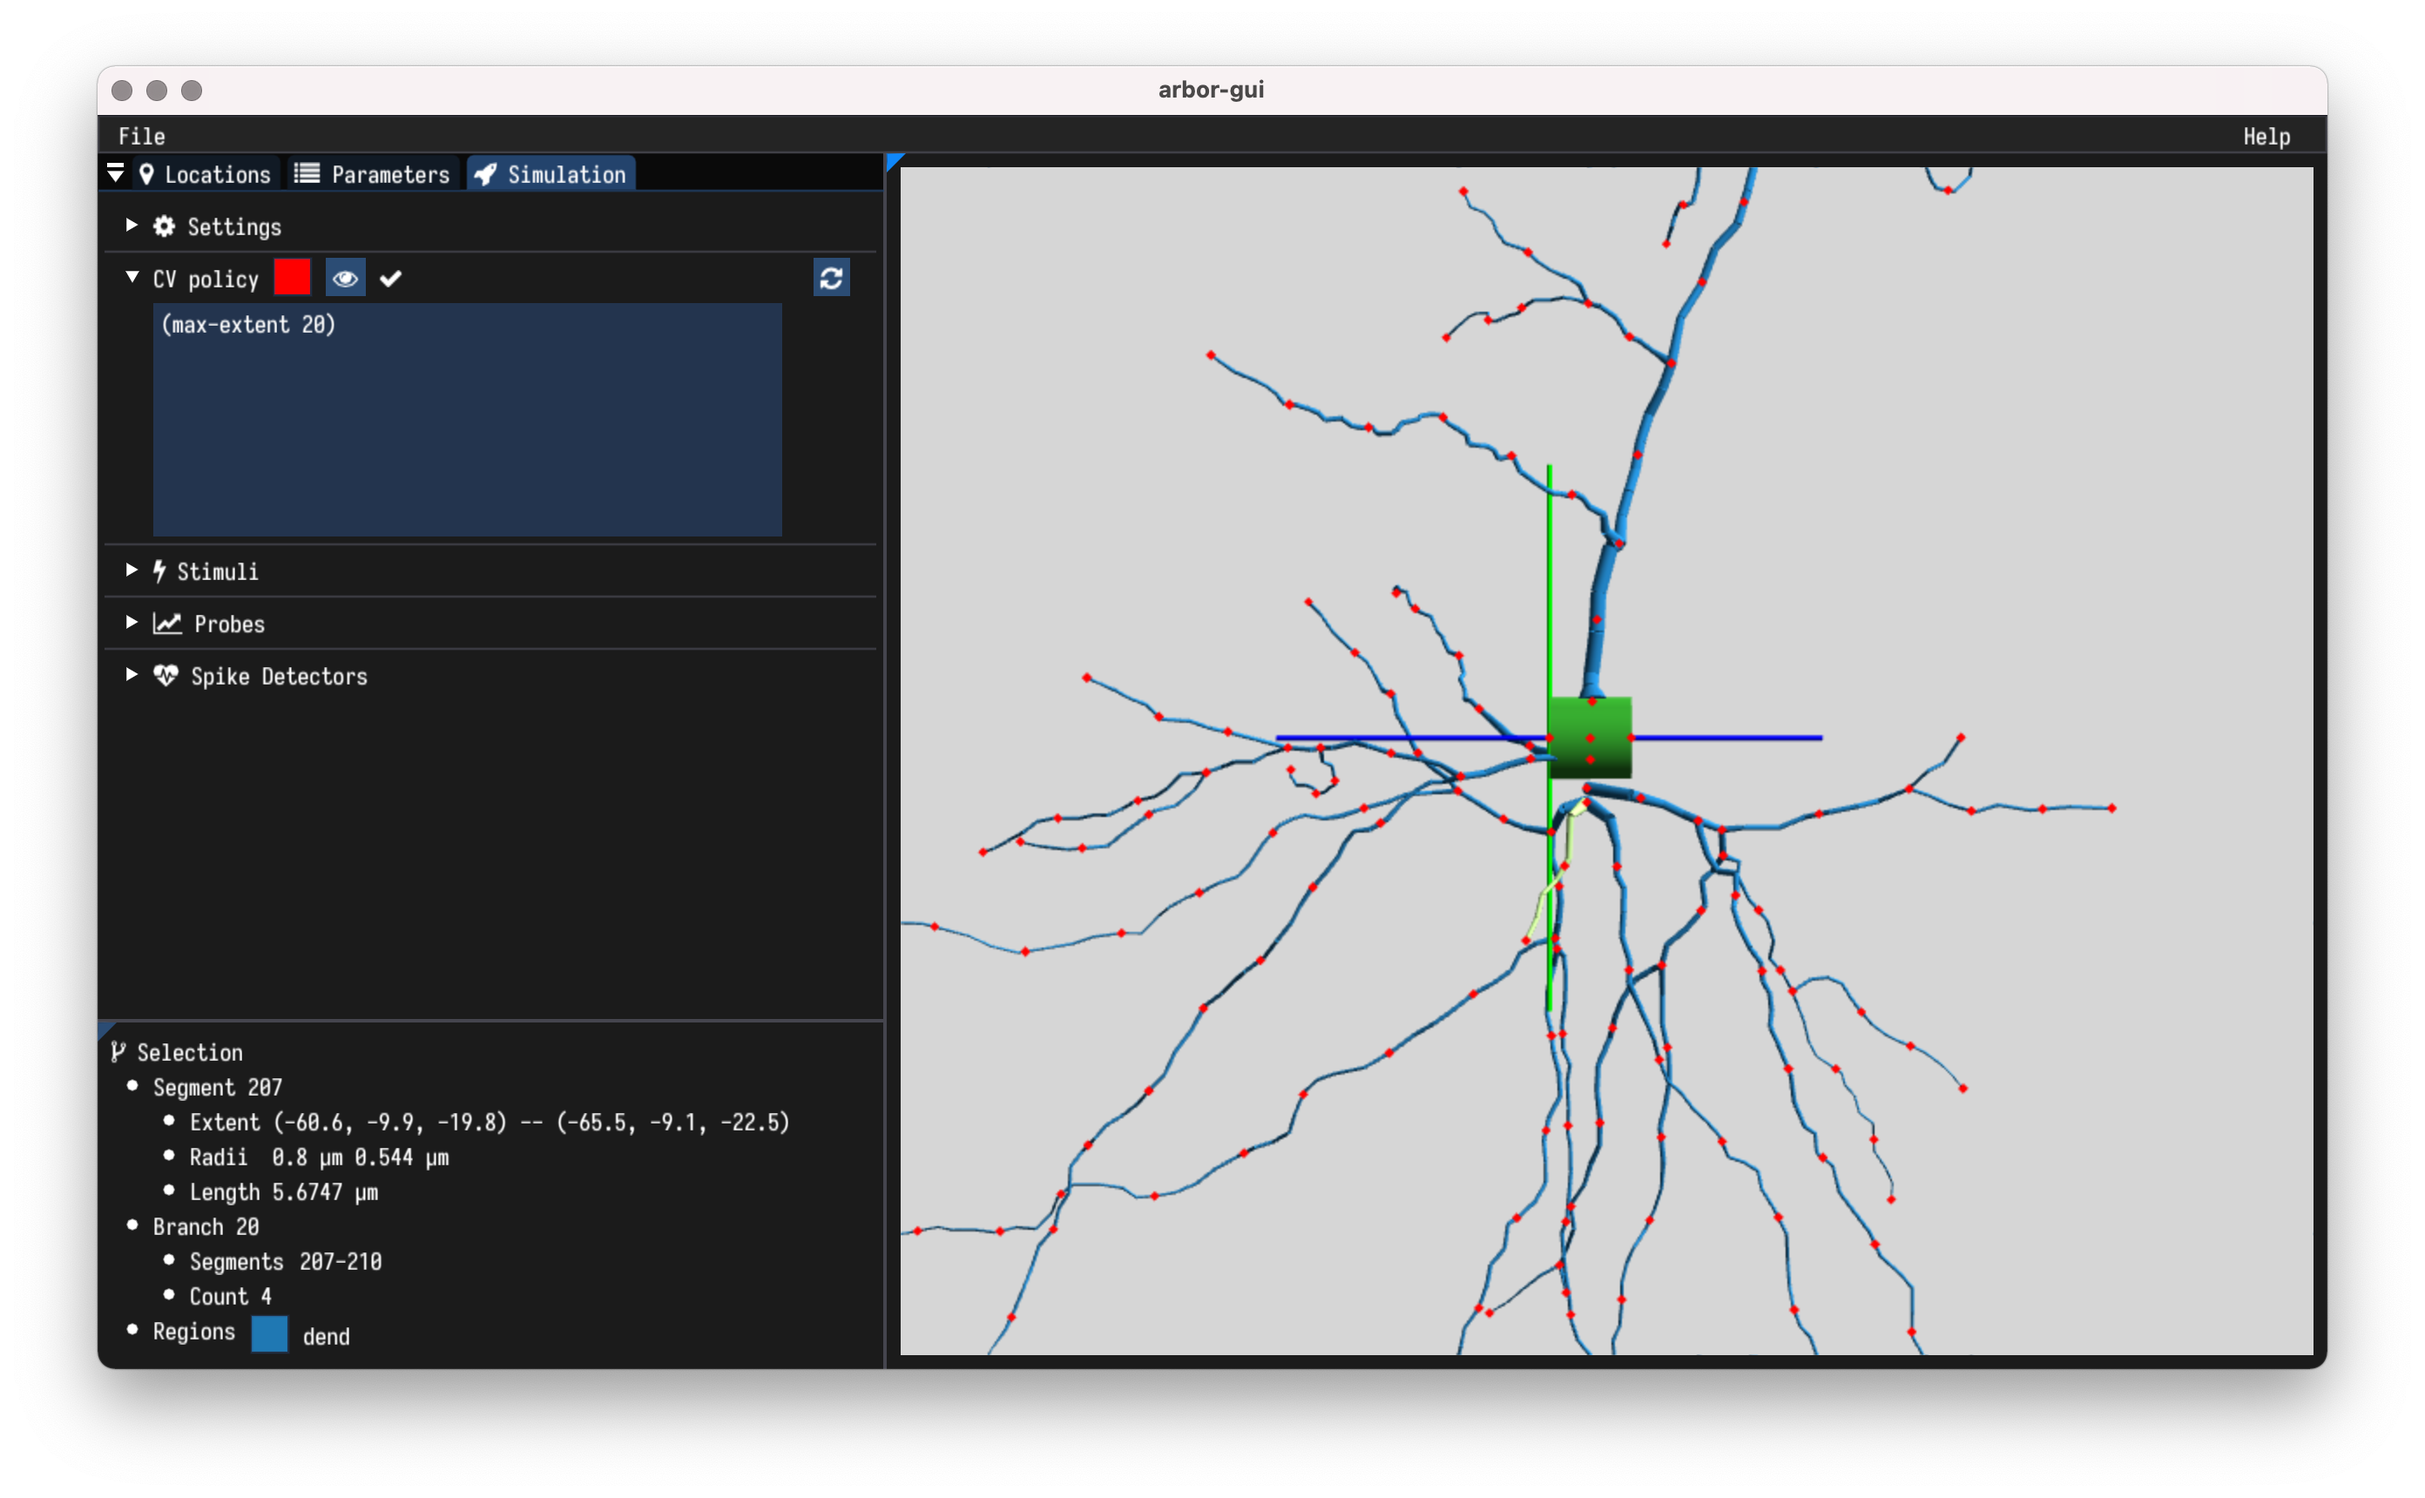
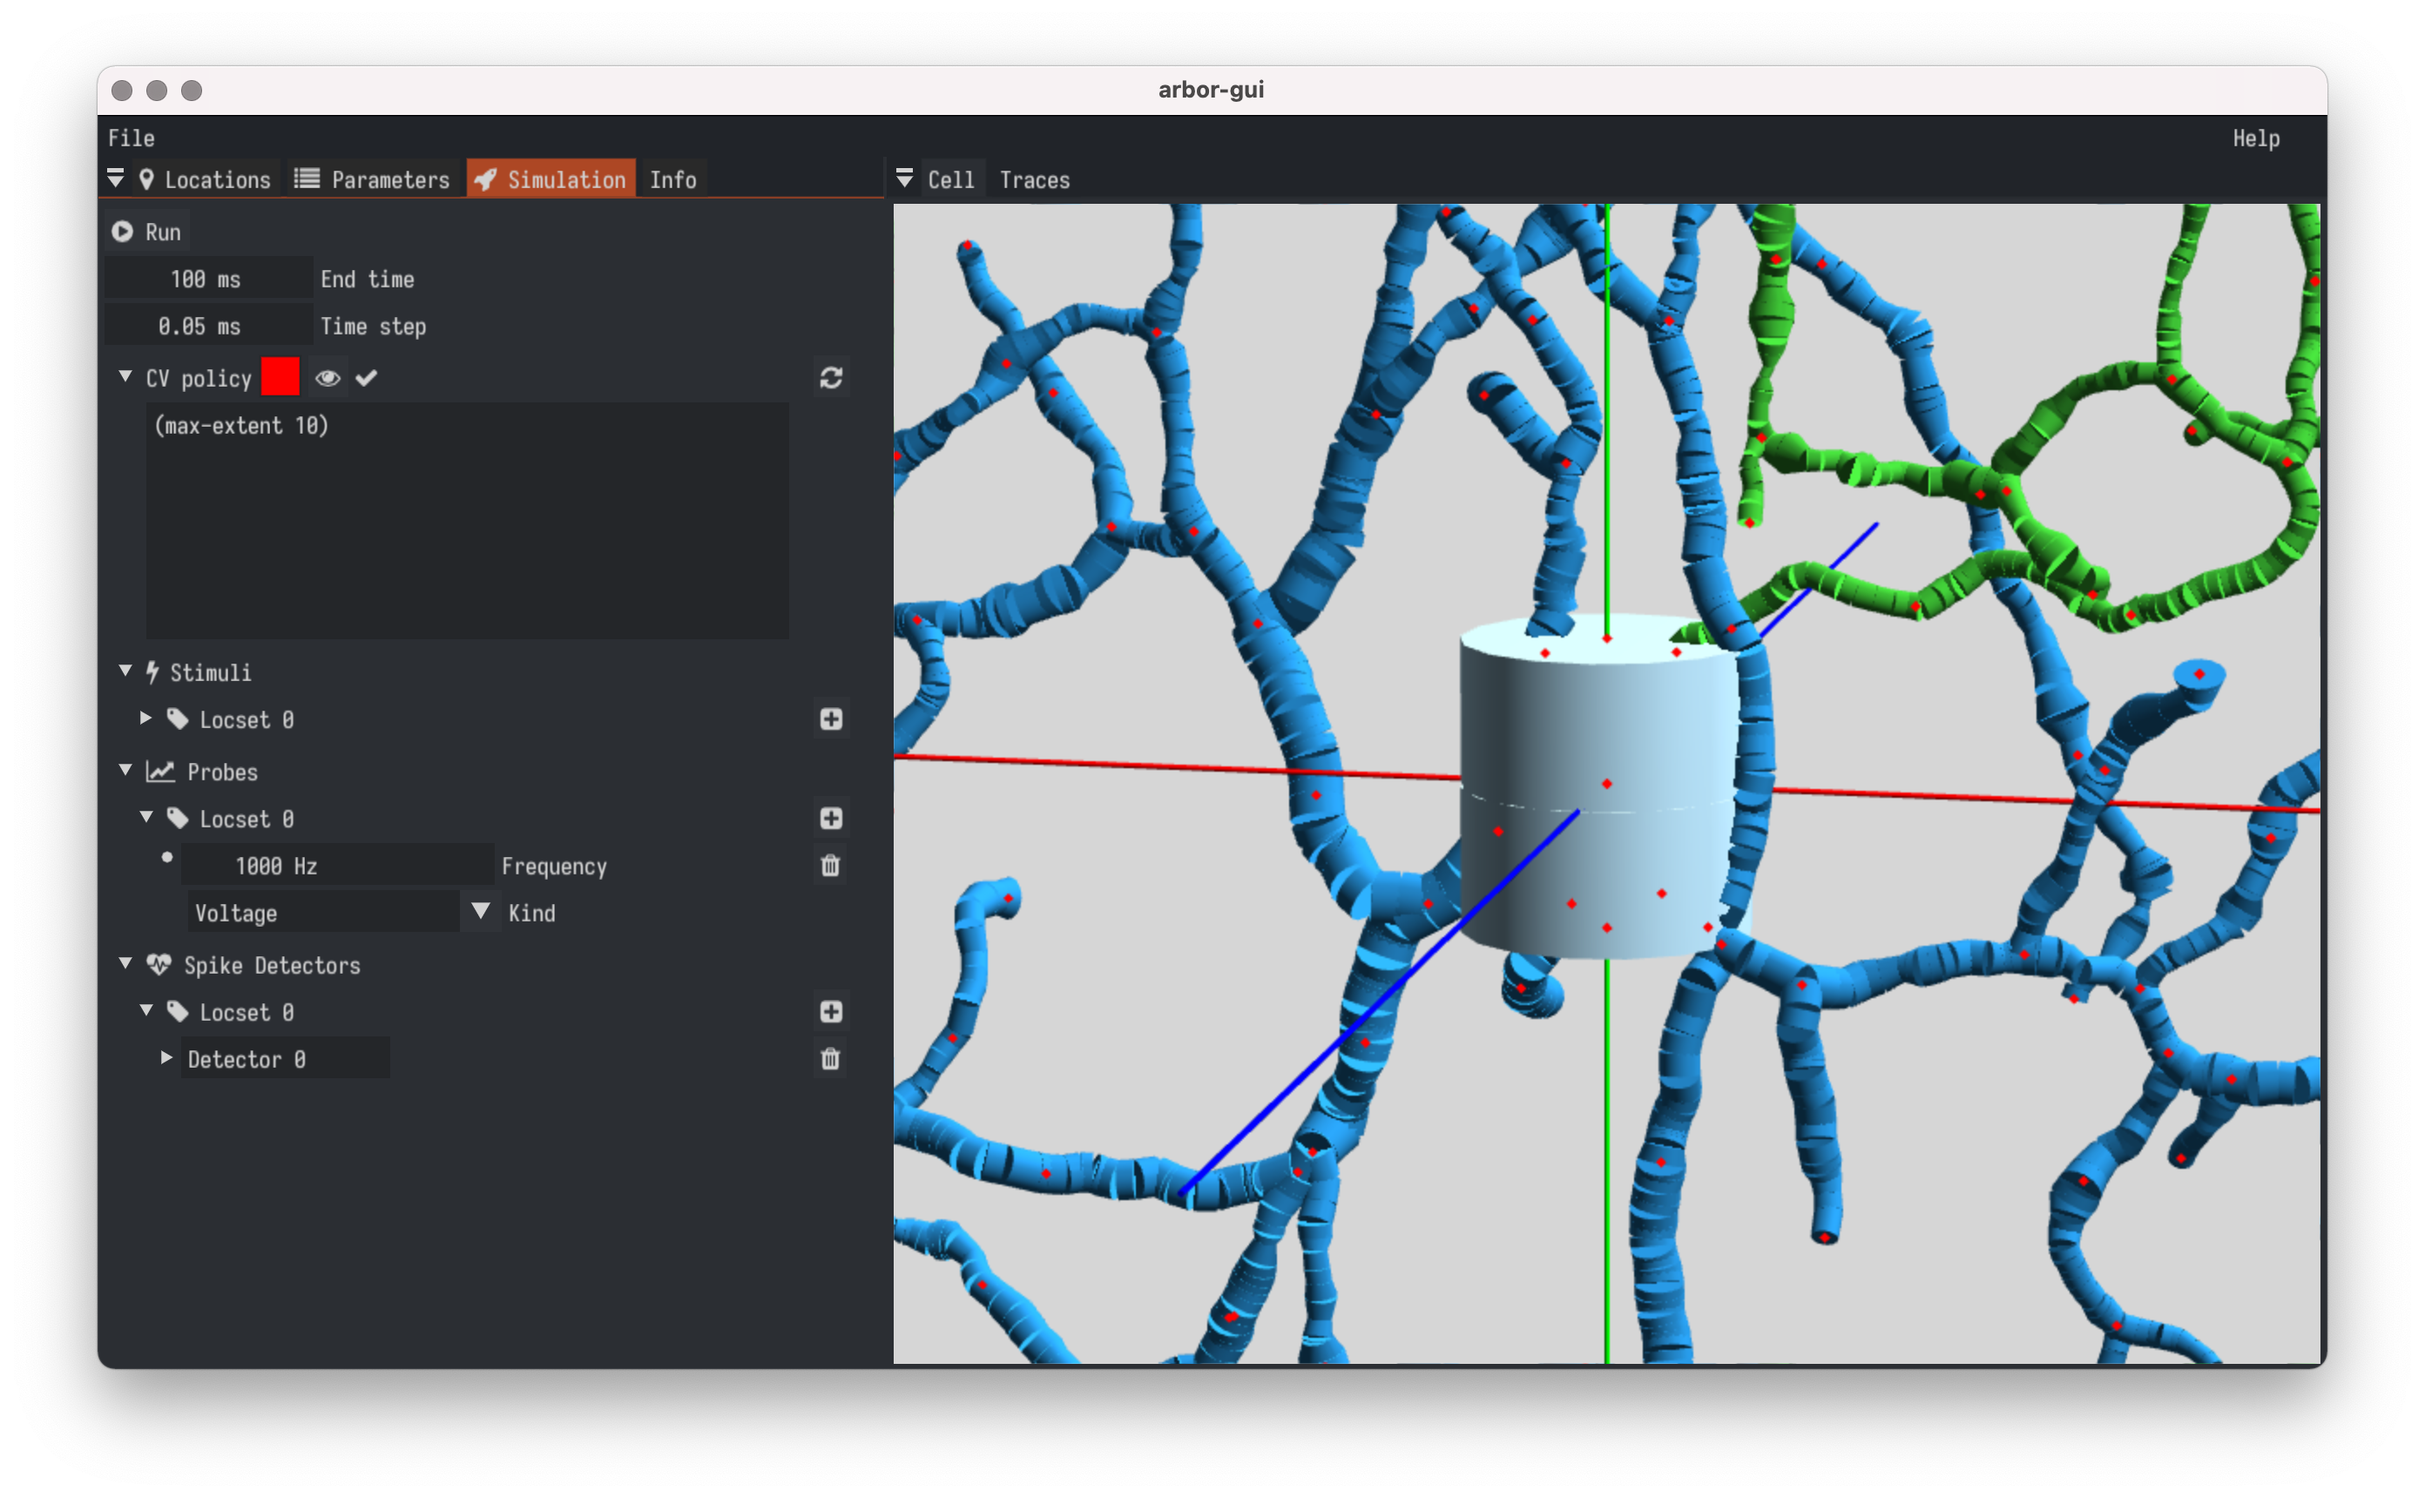
Overhaul screenshots.

diff --git a/README.md b/README.md
@@ -1,8 +1,6 @@
-**⚠ This project is now part of the arbor organisation ⚠**
-
-**⚠ Please look here: https://github.com/arbor-sim/gui ⚠**
-
 # Introduction
+
+![images/full.png](images/full.png)
 
 This project aims to be a comprehensive tool for building single cell
 models using Arbor. It strives to be self-contained, fast, and easy to
@@ -30,9 +28,6 @@ tracker here on GitHub for these purposes. Building network simulation
 is out of scope for this project (we might offer a different tool,
 though).
 
-*Note* The screenshots below are somewhat outdated, the current
-status offers quite a bit more.
-
 ## Interactive Definition of Regions and Locsets
 
 ![images/locations.png](images/locations.png)
@@ -42,9 +37,9 @@ status offers quite a bit more.
     -   Live feedback by Arbor\'s parser.
     -   Well-formed expressions are rendered immediately.
 -   Navigate with
-    -   pan: arrow keys or C-drag,
+    -   pan: arrow keys or hold [CTRL],
     -   zoom: +/- or mouse wheel,
-    -   rotate: mouse drag.
+    -   rotate: hold [SHIFT].
 -   Right-click to
     -   reset camera,
     -   snap-to a defined locset,
@@ -52,6 +47,7 @@ status offers quite a bit more.
     -   tweak morphology orientation,
     -   toggle orientation guide,
     -   save the currently rendered image to disk.
+    -   enter auto-rotation mode
 -   Hover a segment to show
     -   containing branch and regions,
     -   geometry information.
@@ -155,7 +151,7 @@ their Windows machine and use X11-forwarding to display the GUI.
     ```bash
     export DISPLAY=$(awk '/nameserver / {print $2; exit}' /etc/resolv.conf 2\>/dev/null):0
     export LIBGL_ALWAYS_INDIRECT=0
-    export MESA_GL_VERSION_OVERRIDE=3.3
+    export MESA_GL_VERSION_OVERRIDE=3.3 # This should no longer be needed.
     ```
 
 ## MacOS
@@ -166,7 +162,7 @@ and Catalina using this line
 
 ```bash
 cmake .. -DCMAKE_CXX_COMPILER=/usr/local/opt/llvm/bin/clang++ \
-         -DCMAKE_C_COMPILER=/usr/local/opt/llvm/bin/clang      \
+         -DCMAKE_C_COMPILER=/usr/local/opt/llvm/bin/clang     \
          -DCMAKE_BUILD_TYPE=release
 ```
 # Acknowledgements
